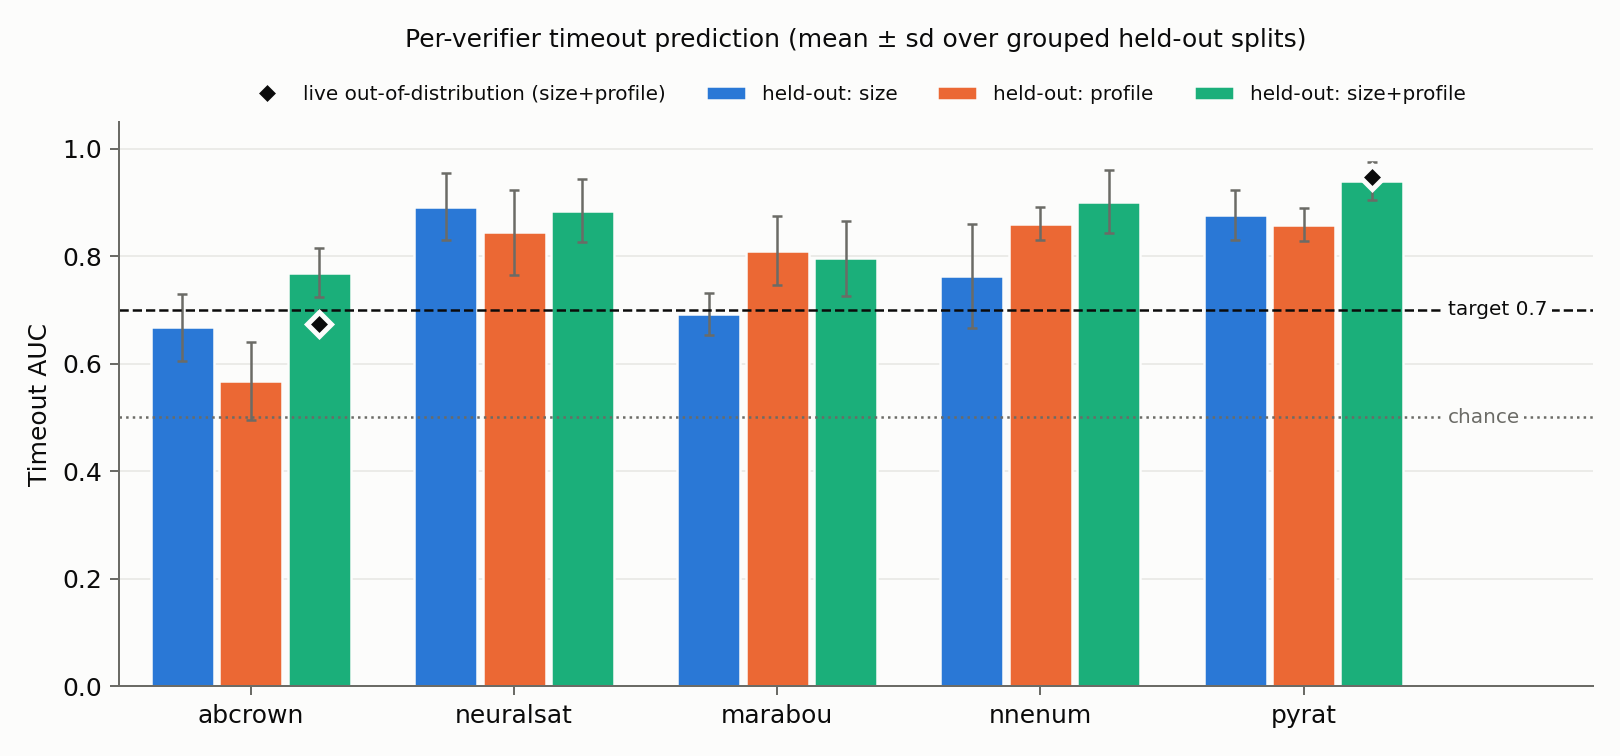
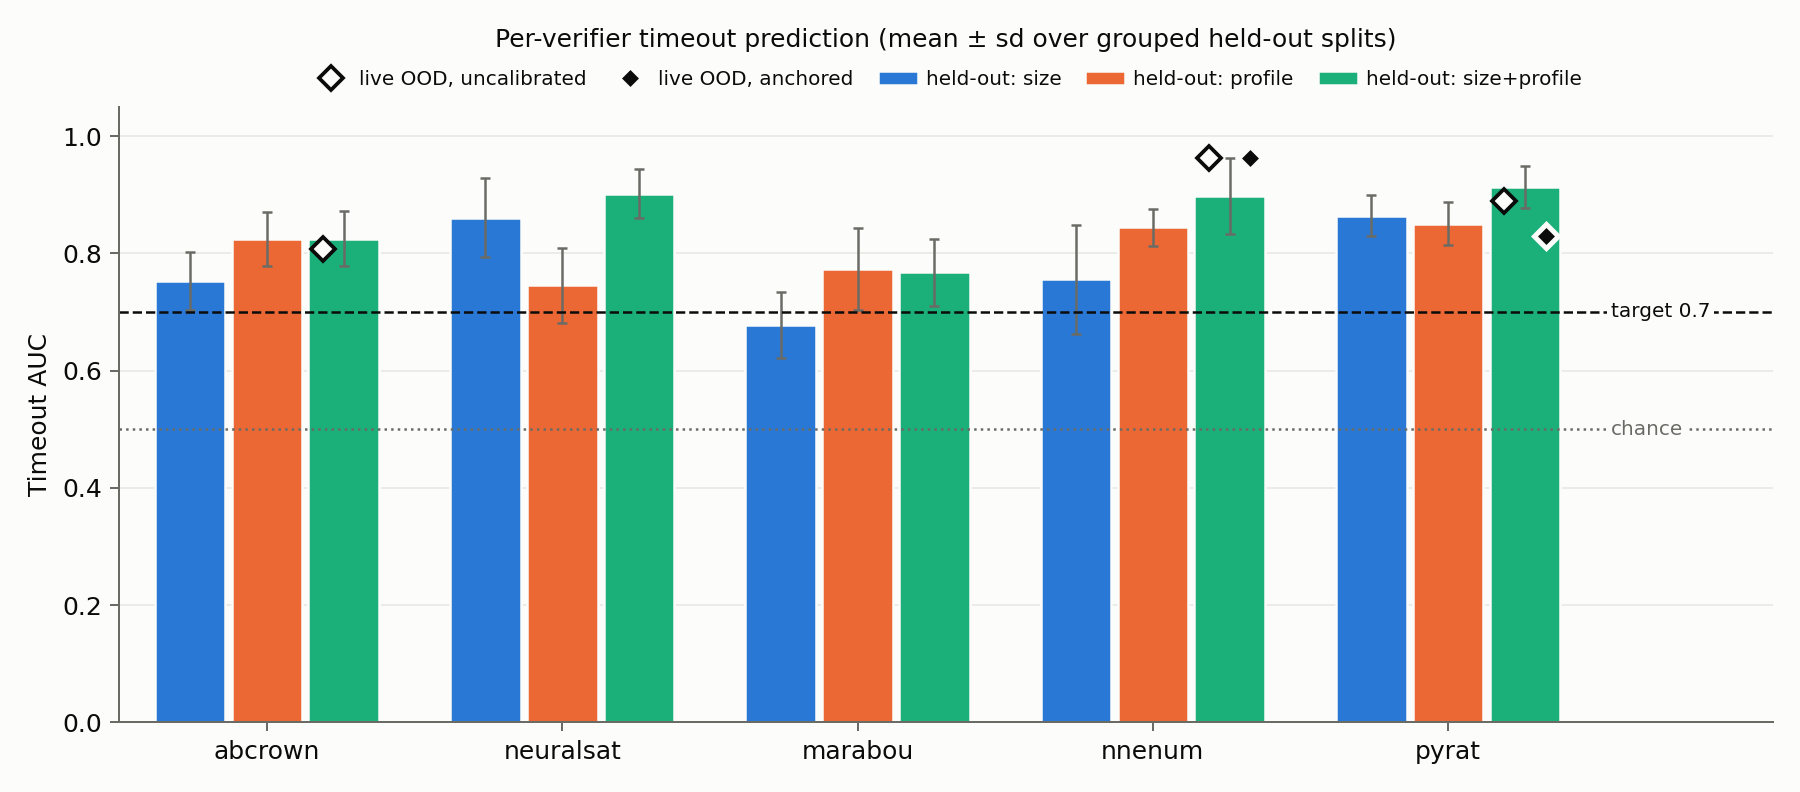
Thrust 2: 120 s horizon, nnenum live, environment anchoring diagnostic
- Card default horizon 120 s; nnenum joins abcrown and pyrat in the live
  out-of-distribution runs.
- Anchoring: re-run recorded instances from the hard end of each
  verifier's recorded runtimes and fit local_s = overhead + slope[arch] *
  recorded_s. Slopes are only estimated from anchors that clear the
  start-up overhead; otherwise the calibration is reported as not
  identifiable. The anchored model is exploratory; the headline live AUC
  is uncalibrated.

Clean run (plugged in, no orphans): held-out AUC 0.768-0.913 for all
five verifiers; live OOD AUC abcrown 0.808, pyrat 0.890, nnenum 0.963.
Local abcrown is ~20x faster than the recording server on attention
models, which explains the earlier 60 s discrepancy.

diff --git a/aiq/thrust2_runner.py b/aiq/thrust2_runner.py
@@ -31,8 +31,11 @@ REPO_ROOT = Path(__file__).resolve().parent.parent
 sys.path.insert(0, str(REPO_ROOT / "src"))
 
 from VeriStressGT.prediction.features import instance_features  # noqa: E402
-from VeriStressGT.prediction.model import (FEATURE_SETS, VERIFIERS, auc, evaluate_recorded,  # noqa: E402
-                                           fit_full, load_training_rows)
+from VeriStressGT.prediction.model import (FEATURE_SETS, VERIFIERS, anchor_time_scale, auc,  # noqa: E402
+                                           design, evaluate_recorded, fit_full, load_training_rows,
+                                           select_anchors)
+
+ANCHOR_BENCH = "src/VeriStressGT/benchmarks/sweep_all"
 
 
 def _resolve(p: str) -> Path:
@@ -69,20 +72,23 @@ def _plot(recorded: Dict[str, Dict], ood: Dict[str, Dict], out_path: Path, targe
     ink, muted, surface = "#0b0b0b", "#6b6b66", "#fcfcfb"
     x = np.arange(len(VERIFIERS))
     w = 0.26
-    fig, ax = plt.subplots(figsize=(9, 4.2), facecolor=surface)
+    fig, ax = plt.subplots(figsize=(10, 4.4), facecolor=surface)
     ax.set_facecolor(surface)
     for k, name in enumerate(sets):
         m = [recorded[v][name]["mean"] or 0 for v in VERIFIERS]
         s = [recorded[v][name]["std"] or 0 for v in VERIFIERS]
         ax.bar(x + (k - 1) * w, m, w * 0.92, yerr=s, capsize=2, color=colors[name], edgecolor=surface,
                linewidth=1, error_kw={"elinewidth": 1, "ecolor": muted}, label=f"held-out: {name}")
-    ood_label = "live out-of-distribution (size+profile)"
+    labels = {"auc_anchored": "live OOD, anchored", "auc_uncalibrated": "live OOD, uncalibrated"}
     for i, v in enumerate(VERIFIERS):
-        a = ood.get(v, {}).get("auc")
-        if a is not None:
-            ax.plot(x[i] + w, a, marker="D", color=ink, ms=7, mec=surface, mew=2, ls="none", zorder=5,
-                    label=ood_label)
-            ood_label = None
+        for key, filled in (("auc_uncalibrated", False), ("auc_anchored", True)):
+            a = ood.get(v, {}).get(key)
+            if a is None:
+                continue
+            dx = 0.07 if filled else -0.07  # side by side, so equal values do not hide each other
+            ax.plot(x[i] + w + dx, a, marker="D", ms=7, ls="none", zorder=5,
+                    color=ink if filled else surface, mec=ink if not filled else surface,
+                    mew=1.5 if not filled else 2, label=labels.pop(key, None))
     ax.axhline(target, color=ink, ls="--", lw=1)
     ax.text(len(VERIFIERS) - 0.45, target, f"target {target}", color=ink, ha="left", va="center", fontsize=8,
             bbox={"facecolor": surface, "edgecolor": "none", "pad": 1.5})
@@ -102,11 +108,11 @@ def _plot(recorded: Dict[str, Dict], ood: Dict[str, Dict], out_path: Path, targe
     ax.set_ylim(0, 1.05)
     ax.set_ylabel("Timeout AUC", color=ink)
     ax.set_title("Per-verifier timeout prediction (mean ± sd over grouped held-out splits)", color=ink,
-                 fontsize=10, pad=30)
+                 fontsize=10, pad=24)
     handles, labels = ax.get_legend_handles_labels()
     uniq = dict(zip(labels, handles))
     leg = ax.legend(uniq.values(), uniq.keys(), fontsize=8, loc="lower center", bbox_to_anchor=(0.5, 1.0),
-                    ncol=4, frameon=False)
+                    ncol=5, frameon=False, handletextpad=0.4, columnspacing=1.2)
     for t in leg.get_texts():
         t.set_color(ink)
     fig.tight_layout()
@@ -118,7 +124,7 @@ def _plot(recorded: Dict[str, Dict], ood: Dict[str, Dict], out_path: Path, targe
 class Thrust2RunnerCLI(scfg.DataConfig):
     """Evaluate per-verifier timeout predictors on recorded runs and on live out-of-distribution runs."""
 
-    horizon = scfg.Value(60.0, type=float, help="Timeout horizon (s): live timeout and label horizon.",
+    horizon = scfg.Value(120.0, type=float, help="Timeout horizon (s): live timeout and label horizon.",
                          tags=["algo_param"])
     repeats = scfg.Value(10, type=int, help="Grouped held-out splits (seeds 0..repeats-1).", tags=["algo_param"])
     ood_bench_dir = scfg.Value("thrust2_ood_bench", help="Pre-built out-of-distribution benchmark.",
@@ -126,7 +132,7 @@ class Thrust2RunnerCLI(scfg.DataConfig):
     ood_spec_path = scfg.Value("src/VeriStressGT/configs/thrust2_ood.yaml",
                                help="Spec used to (re)build the OOD benchmark with --rebuild.", tags=["algo_param"])
     run_dir = scfg.Value("thrust2_run", help="Output root for live verifier runs.", tags=["algo_param"])
-    live_verifiers = scfg.Value(["abcrown", "pyrat"], help="Verifiers run live (skipped if missing).",
+    live_verifiers = scfg.Value(["abcrown", "pyrat", "nnenum"], help="Verifiers run live (skipped if missing).",
                                 tags=["algo_param"])
     real_jobs = scfg.Value(2, type=int, help="Parallel instances per live verifier.", tags=["algo_param"])
     abcrown_config = scfg.Value("src/VeriStressGT/configs/abcrown_basic.yaml", help="alpha-beta-CROWN config.",
@@ -134,6 +140,9 @@ class Thrust2RunnerCLI(scfg.DataConfig):
     rebuild = scfg.Value(False, help="Regenerate the OOD benchmark (slow: exact-radius MILPs).",
                          tags=["algo_param"])
     reuse_runs = scfg.Value(False, help="Reuse live results.jsonl already in run_dir.", tags=["algo_param"])
+    anchors_per_arch = scfg.Value(4, type=int, help="Anchor instances per architecture: re-run recorded "
+                                  "instances here to measure the environment speed shift and fit the "
+                                  "(exploratory) anchored model; 0 disables.", tags=["algo_param"])
     target_auc = scfg.Value(0.7, type=float, help="Per-verifier AUC target (reporting only).", tags=["algo_param"])
     results_fpath = scfg.Value("results.json", help="Output JSON consumed by MAGNET.", tags=["out_path", "primary"])
 
@@ -206,20 +215,55 @@ class Thrust2RunnerCLI(scfg.DataConfig):
             live = pd.DataFrame(rows)
             if v not in VERIFIERS:
                 continue
-            model = fit_full(df, v, H)
             cols = FEATURE_SETS["size+profile"]
-            from VeriStressGT.prediction.model import design
-            live["p_timeout"] = model.predict_proba(design(live, cols))[:, 1]
             scored = live[live.y.notna()].copy()
-            a = auc(model, scored, cols) if len(scored) else None
-            ood[v] = {"auc": a, "n": int(len(scored)), "n_excluded": int(live.y.isna().sum()),
-                      "timeout_rate": float(scored.y.mean()) if len(scored) else None}
-            print(f"  {v}: OOD AUC = {a if a is None else round(a, 3)} on {len(scored)} instances "
-                  f"(timeout rate {ood[v]['timeout_rate']:.2f}; excluded errors: {ood[v]['n_excluded']})",
-                  flush=True)
+
+            # Environment anchoring: re-run recorded anchor instances here, rescale recorded runtimes.
+            anchor = None
+            if int(config.anchors_per_arch) > 0:
+                anchors = select_anchors(df, v, int(config.anchors_per_arch))
+                aout = run_dir / f"{v}_anchors"
+                if not (config.reuse_runs and (aout / "results.jsonl").exists()):
+                    _run([sys.executable, "-u", "-m", "VeriStressGT.cli.verify_benchmark", "--benchmark",
+                          str(_resolve(ANCHOR_BENCH)), "--verifier", v, "--out_dir", str(aout), "--timeout", str(H),
+                          "--overwrite", "--jobs", str(config.real_jobs), "--instances", *anchors,
+                          *real_extra.get(v, [])])
+                arecs = [json.loads(l) for l in (aout / "results.jsonl").read_text().splitlines() if l.strip()]
+                anchor = anchor_time_scale(df, v, {r["instance_id"]: (r["status"], float(r["wall_time_s"] or 0))
+                                                   for r in arecs})
+                if anchor["identifiable"]:
+                    print(f"  {v}: anchors -> local_s = {anchor['overhead_s']:.1f} + slope * recorded_s, slopes "
+                          f"{ {k: round(x, 3) for k, x in anchor['slope_by_arch'].items()} }", flush=True)
+                else:
+                    print(f"  {v}: anchor calibration not identifiable ({anchor['reason']})", flush=True)
+
+            res_v = {"n": int(len(scored)), "n_excluded": int(live.y.isna().sum()),
+                     "timeout_rate": float(scored.y.mean()) if len(scored) else None,
+                     "anchor_calibration": anchor}
+            for tag, calib in (("uncalibrated", None), ("anchored", anchor)):
+                if tag == "anchored" and not (calib and calib.get("identifiable")):
+                    continue
+                from VeriStressGT.prediction.model import rows_for
+                if rows_for(df, v, H, calib).y.nunique() < 2:
+                    res_v[f"note_{tag}"] = "recorded runs yield a single label class at this horizon"
+                    continue
+                model = fit_full(df, v, H, calibration=calib)
+                live[f"p_timeout_{tag}"] = model.predict_proba(design(live, cols))[:, 1]
+                res_v[f"auc_{tag}"] = auc(model, scored, cols) if len(scored) else None
+            # Headline = uncalibrated: with a handful of anchors the affine correction was not reliably
+            # better (it can be unidentifiable, or noisier than the shift it corrects). The anchors are
+            # still reported as a diagnostic of how the verifier's speed differs between environments.
+            res_v["auc"] = res_v.get("auc_uncalibrated")
+            ood[v] = res_v
+            fmt = lambda x: "n/a" if x is None else f"{x:.3f}"
+            print(f"  {v}: OOD AUC uncalibrated {fmt(res_v['auc_uncalibrated'])}, anchored "
+                  f"{fmt(res_v.get('auc_anchored'))} on {len(scored)} instances "
+                  f"(timeout rate {res_v['timeout_rate']:.2f}; excluded errors: {res_v['n_excluded']})", flush=True)
             for _, r in live.iterrows():
-                pred_rows.append({"verifier": v, "instance_id": r.instance_id, "status": r.status,
-                                  "wall_time_s": r.wall_time_s, "timed_out": r.y, "p_timeout": r.p_timeout})
+                pred_rows.append({"verifier": v, "instance_id": r.instance_id, "arch": r.get("_arch", ""),
+                                  "status": r.status, "wall_time_s": r.wall_time_s, "timed_out": r.y,
+                                  "p_timeout_uncalibrated": r.get("p_timeout_uncalibrated", np.nan),
+                                  "p_timeout_anchored": r.get("p_timeout_anchored", np.nan)})
 
         # ── 3. results ──────────────────────────────────────────────────────────────────
         per_v_auc = {v: recorded[v]["size+profile"]["mean"] for v in VERIFIERS}
@@ -232,6 +276,7 @@ class Thrust2RunnerCLI(scfg.DataConfig):
             "min_verifier_auc": min(a for a in per_v_auc.values() if a is not None),
             "verifiers_meeting_target": sorted(v for v, a in per_v_auc.items() if a is not None and a >= config.target_auc),
             "ood_auc": {v: d["auc"] for v, d in ood.items()},
+            "ood_auc_uncalibrated": {v: d["auc_uncalibrated"] for v, d in ood.items()},
             "n_ood_instances": len(insts),
         }
         for v in VERIFIERS:  # flat scalars for the MAGNET dashboard

diff --git a/src/VeriStressGT/prediction/model.py b/src/VeriStressGT/prediction/model.py
@@ -16,7 +16,7 @@ of any split (VNN-COMP benchmarks reuse a handful of networks across many proper
 from __future__ import annotations
 
 from pathlib import Path
-from typing import Dict, List, Optional, Tuple
+from typing import Any, Dict, List, Optional, Tuple
 
 import numpy as np
 import pandas as pd
@@ -44,7 +44,11 @@ def load_training_rows(path: Optional[Path] = None) -> pd.DataFrame:
     return pd.read_csv(path or TRAINING_ROWS)
 
 
-def label_at_horizon(status: pd.Series, runtime: pd.Series, budget: pd.Series, horizon: float) -> pd.Series:
+def label_at_horizon(status: pd.Series, runtime: pd.Series, budget: pd.Series, horizon: float,
+                     scale=1.0, offset: float = 0.0) -> pd.Series:
+    """``offset + scale * t`` (scale may be a per-row Series) converts recorded seconds into the target
+    environment's seconds (see ``anchor_time_scale``); the defaults label in the recording environment."""
+    runtime, budget = offset + runtime * scale, offset + budget * scale
     s = status.astype(str).str.upper()
     conclusive = s.isin(["UNSAT", "SAT"])
     y = pd.Series(np.nan, index=status.index)
@@ -54,10 +58,80 @@ def label_at_horizon(status: pd.Series, runtime: pd.Series, budget: pd.Series, h
     return y
 
 
-def rows_for(df: pd.DataFrame, verifier: str, horizon: float) -> pd.DataFrame:
+def rows_for(df: pd.DataFrame, verifier: str, horizon: float,
+             calibration: Optional[Dict[str, Any]] = None) -> pd.DataFrame:
     d = df[df.verifier == verifier].copy()
-    d["y"] = label_at_horizon(d.raw_status, d.raw_time, d.budget_s, horizon)
+    scale, offset = 1.0, 0.0
+    if calibration:
+        slopes = calibration["slope_by_arch"]
+        scale = d.arch_type.map(slopes).fillna(slopes.get("_all", 1.0))
+        offset = calibration["overhead_s"]
+    d["y"] = label_at_horizon(d.raw_status, d.raw_time, d.budget_s, horizon, scale, offset)
     return d[d.y.notna()]
+
+
+# ── environment anchoring ────────────────────────────────────────────────────────────────
+# Timeouts are relative to a machine, verifier version and config. A verifier's speed can shift
+# between the recording environment and the one a predictor is used in, and not uniformly: on the
+# paper's server abcrown needed 110-155 s on softmax-attention models that a laptop abcrown solves
+# in ~9 s. Anchoring re-runs a few recorded instances per architecture in the target environment
+# and fits local_s = overhead + slope[arch] * recorded_s: the overhead is the fixed per-call cost of
+# the target environment (e.g. ~10-20 s of `conda run` start-up), the slope its relative speed.
+
+ANCHOR_ARCHS = ("MLP", "CNN", "ATTENTION")
+
+
+def select_anchors(df: pd.DataFrame, verifier: str, per_arch: int = 4) -> List[str]:
+    """Deterministic anchors for one verifier: committed synthetic instances from the upper half of
+    that verifier's recorded runtimes (recorded timeouts count at their budget), per architecture.
+
+    Near-horizon behaviour is what the calibration has to get right, so anchors are taken from the
+    hard end rather than spread evenly; easy anchors finish within the start-up overhead and carry
+    no information about speed."""
+    d = df[(df.benchmark == "sweep_all") & (df.verifier == verifier)
+           & df.raw_status.isin(["UNSAT", "SAT", "TIMEOUT"])].copy()
+    d["t"] = np.where(d.raw_status == "TIMEOUT", d.budget_s, d.raw_time)
+    out: List[str] = []
+    for arch in ANCHOR_ARCHS:
+        a = d[d.arch_type == arch].sort_values(["t", "instance_id"]).reset_index(drop=True)
+        if a.empty:
+            continue
+        qs = np.linspace(0.5, 1.0, per_arch)
+        out += sorted({a.instance_id.iloc[int(round(q * (len(a) - 1)))] for q in qs})
+    return out
+
+
+def anchor_time_scale(df: pd.DataFrame, verifier: str, local: Dict[str, Tuple[str, float]],
+                      min_signal_s: float = 5.0) -> Dict[str, Any]:
+    """Affine map recorded -> local seconds: local_s = overhead + slope[arch] * recorded_s.
+
+    overhead = the fastest local anchor run (the fixed per-call cost). A slope is only estimated from
+    anchors that both environments decided and whose local time exceeds the overhead by at least
+    ``min_signal_s``; architectures without such anchors borrow the median of the others. If no
+    anchor carries signal, the calibration is reported as not identifiable (``identifiable=False``).
+    ``local`` maps instance_id -> (status, wall seconds) from the live run."""
+    rec = df[(df.verifier == verifier) & (df.benchmark == "sweep_all")].set_index("instance_id")
+    pairs = []
+    for iid, (st, t) in local.items():
+        if iid in rec.index:
+            r = rec.loc[iid]
+            pairs.append({"instance_id": iid, "arch": r.arch_type, "recorded_status": r.raw_status,
+                          "recorded_s": float(r.raw_time), "local_status": str(st).upper(), "local_s": float(t)})
+    decided = [p for p in pairs if p["local_status"] in ("UNSAT", "SAT")]
+    if not decided:
+        return {"identifiable": False, "reason": "no anchor decided locally", "pairs": pairs}
+    overhead = min(p["local_s"] for p in decided)
+    usable = [p for p in decided if p["recorded_status"] in ("UNSAT", "SAT") and p["recorded_s"] > 0
+              and p["local_s"] >= overhead + min_signal_s]
+    if not usable:
+        return {"identifiable": False, "overhead_s": float(overhead), "pairs": pairs,
+                "reason": f"every decided anchor finished within {min_signal_s:.0f} s of the start-up overhead"}
+    slopes: Dict[str, List[float]] = {}
+    for p in usable:
+        slopes.setdefault(p["arch"], []).append((p["local_s"] - overhead) / p["recorded_s"])
+    slope = {a: float(np.median(v)) for a, v in slopes.items()}
+    slope["_all"] = float(np.median([x for v in slopes.values() for x in v]))
+    return {"identifiable": True, "overhead_s": float(overhead), "slope_by_arch": slope, "pairs": pairs}
 
 
 def instance_split(df: pd.DataFrame, test_frac: float = 0.3, seed: int = 0) -> Tuple[set, set]:
@@ -124,7 +198,8 @@ def evaluate_recorded(df: pd.DataFrame, horizon: float, seed: int = 0) -> Dict[s
     return out
 
 
-def fit_full(df: pd.DataFrame, verifier: str, horizon: float, cols: Optional[List[str]] = None, seed: int = 0):
+def fit_full(df: pd.DataFrame, verifier: str, horizon: float, cols: Optional[List[str]] = None, seed: int = 0,
+             calibration: Optional[Dict[str, Any]] = None):
     """Final model on all recorded rows (used for predicting fresh instances)."""
     cols = cols or FEATURE_SETS["size+profile"]
-    return fit(rows_for(df, verifier, horizon), cols, seed)
+    return fit(rows_for(df, verifier, horizon, calibration), cols, seed)

diff --git a/AIQ_README.md b/AIQ_README.md
@@ -158,11 +158,17 @@ the five Difficulty-Profile components (`src/VeriStressGT/prediction/`).
    (`src/VeriStressGT/prediction/data/training_rows.csv`): 345 instances (225 synthetic, 120
    VNN-COMP mnist_fc / oval21) × abcrown, neuralsat, marabou, nnenum, pyrat. Every split is grouped
    by network, so no network is on both sides; this matters because VNN-COMP reuses 6 networks
-   across 120 properties. Results are the mean over 10 grouped splits. Labels use a 60 s horizon
-   (timed out, or solved only after 60 s), matching the live runs.
+   across 120 properties. Results are the mean over 10 grouped splits. Labels use a 120 s horizon
+   (timed out, or solved only after 120 s), matching the live runs.
 2. **Live out-of-distribution (reported).** `thrust2_ood_bench/` holds 30 fresh networks with
    seeds and parameters outside the training runs. The card computes their features on the fly,
-   runs abcrown and pyrat at a 60 s timeout, and scores predictors fitted on all recorded data.
+   runs abcrown, pyrat and nnenum at a 120 s timeout, and scores predictors fitted on all recorded
+   data.
+3. **Environment diagnostic.** For each live verifier, the card also re-runs 12 recorded anchor
+   instances from the hard end of its recorded runtimes. It fits local_s = overhead + slope[arch] ×
+   recorded_s, which shows how far that verifier's speed has shifted from the recording environment.
+   An anchored model is also reported, but is exploratory: with this few anchors it was not
+   reliably better than the uncalibrated one.
 
 **Claim.** Every verifier's mean held-out AUC is >= 0.7. Per the eval plan, this is not aligned
 to the BAA's 95% goal.
@@ -172,24 +178,32 @@ profile via `estimate_profile(..., atau_n_samples=600)`, with `a_tau` as the log
 local fingerprints (paper Eq. 14). `tests/test_prediction.py` checks the recomputed features
 against the table.
 
+**Run it on an awake, plugged-in machine.** Runtimes are measured with a monotonic clock, so a
+sleeping laptop does not inflate them, but a suspended run does not progress either.
+
 ### Sample run results
 
-**Machine:** MacBook Pro (Apple Silicon), CPU only. **Config:** card defaults. Full run about 17 min.
+**Machine:** MacBook Pro (Apple Silicon), CPU only, plugged in and awake. **Config:** card
+defaults (120 s horizon). Full run about 35 min.
 
-| Verifier | Held-out AUC, size + profile | Size only | Profile only | Live OOD AUC |
+| Verifier | Held-out AUC, size + profile | Size only | Profile only | Live OOD AUC (timeouts) |
 |---|---|---|---|---|
-| abcrown | **0.770** ± 0.046 | 0.668 | 0.567 | 0.673 (4/30 timeouts) |
-| neuralsat | **0.885** ± 0.059 | 0.892 | 0.844 | not run live |
-| marabou | **0.796** ± 0.070 | 0.692 | 0.810 | not run live |
-| nnenum | **0.901** ± 0.059 | 0.763 | 0.860 | not run live |
-| pyrat | **0.939** ± 0.036 | 0.876 | 0.859 | **0.947** (11/30 timeouts) |
+| abcrown | **0.825** ± 0.047 | 0.753 | 0.825 | **0.808** (4/30) |
+| neuralsat | **0.902** ± 0.042 | 0.861 | 0.745 | not run live |
+| marabou | **0.768** ± 0.057 | 0.677 | 0.774 | not run live |
+| nnenum | **0.898** ± 0.065 | 0.756 | 0.844 | **0.963** (6/15; nnenum errors on MEAP and attention) |
+| pyrat | **0.913** ± 0.035 | 0.864 | 0.851 | **0.890** (10/30) |
 
-- All five verifiers clear 0.7 on held-out networks. Adding the profile to size helps most for
-  abcrown (+0.10), marabou (+0.10) and nnenum (+0.14). For neuralsat, size alone is already as good.
-- On live runs, pyrat's predictor transfers well (0.947). abcrown's does not (0.673): the model
-  expects abcrown to time out on attention models, as it often did in the server runs, but the
-  local abcrown solves them in about 9 s. That is a change in the verifier's behaviour between
-  environments, not in the instances. With only 4 live abcrown timeouts, this AUC is also noisy.
+- All five verifiers clear 0.7 on held-out networks, and the predictors transfer to fresh networks
+  run live on a different machine (0.81-0.96).
+- The anchors show how much the environment matters. Local abcrown solves the server's attention
+  anchors (142-154 s there) in 7-8 s, about 20× faster, and too fast for the slope to be
+  identifiable. pyrat's slope is about 0.5-1.2 and nnenum's about 0.6-1.0. An earlier 60 s run gave
+  abcrown a live AUC of about 0.67. That run was not clean (leftover verifier processes overloaded
+  the machine), but the direction is expected: at 60 s the server labels call every attention model
+  a timeout. At 120 s the predictor is less exposed to this speed shift.
+- The anchored models were not better (pyrat 0.830 vs 0.890 uncalibrated; nnenum unchanged), so
+  the uncalibrated live AUC is the headline number.
 
 ![Thrust 2 timeout AUC](assets/thrust2_auc.png)
 
